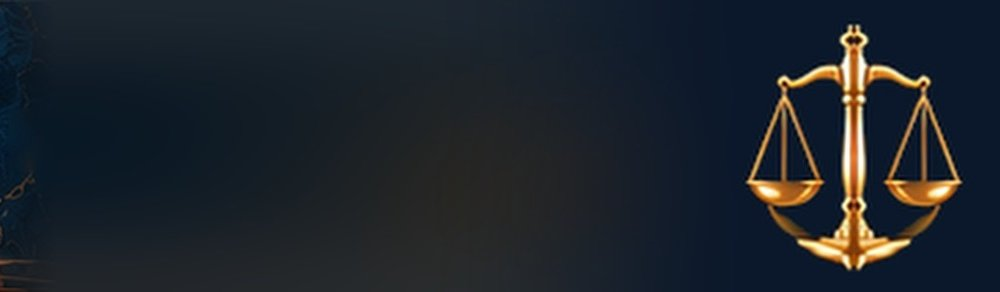
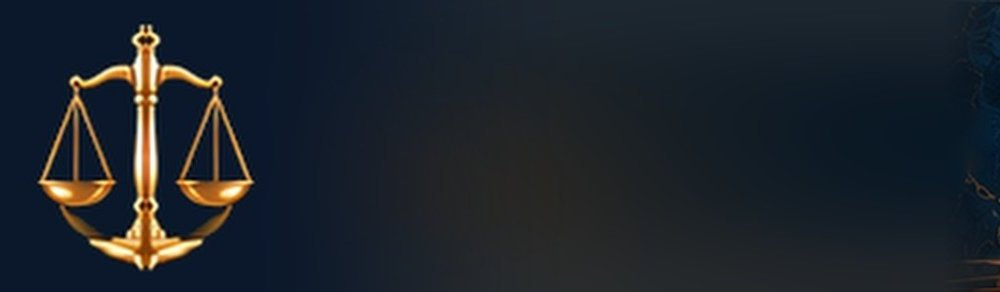
تطبيق الموكل: ورق خشن، هيدر أوضح، أيقونات حديثة، بطاقة جلسة مضغوطة
Claude-Session: https://claude.ai/code/session_01VYKzt29RVVuxCy8ToxrDG3

diff --git a/office/mithaq_portal/lib/home.dart b/office/mithaq_portal/lib/home.dart
@@ -109,10 +109,14 @@ class _Header extends StatelessWidget {
     final unread = store.unread;
     return Container(
       padding: EdgeInsets.fromLTRB(Sp.page, top + Sp.s, Sp.page, Sp.l),
+      foregroundDecoration: BoxDecoration(
+        borderRadius: const BorderRadius.vertical(bottom: Radius.circular(R.sheet)),
+        gradient: LinearGradient(begin: Alignment.centerRight, end: Alignment.centerLeft, colors: [MQ.forestDeep.withValues(alpha: .92), MQ.forestDeep.withValues(alpha: .78), MQ.forestDeep.withValues(alpha: .15)], stops: const [0, .6, 1]),
+      ),
       decoration: BoxDecoration(
         color: MQ.forest,
         borderRadius: const BorderRadius.vertical(bottom: Radius.circular(R.sheet)),
-        image: const DecorationImage(image: AssetImage('assets/images/hdr.jpg'), fit: BoxFit.cover, alignment: Alignment.centerRight),
+        image: const DecorationImage(image: AssetImage('assets/images/hdr.jpg'), fit: BoxFit.cover, alignment: Alignment.centerLeft),
         boxShadow: [BoxShadow(color: MQ.forest.withValues(alpha: .25), blurRadius: 16, offset: const Offset(0, 6))],
         border: const Border(bottom: BorderSide(color: MQ.gold, width: 1.5)),
       ),
@@ -130,8 +134,8 @@ class _Header extends StatelessWidget {
           const SizedBox(width: Sp.m),
           Expanded(
             child: Column(crossAxisAlignment: CrossAxisAlignment.start, children: [
-              Text('بوابة الموكل', style: MQ.title1(color: MQ.brassHi)),
-              Text('${store.office['name'] ?? ''}', style: MQ.footnote(color: MQ.soft), maxLines: 1, overflow: TextOverflow.ellipsis),
+              Text('بوابة الموكل', style: MQ.title1(color: Colors.white).copyWith(shadows: const [Shadow(color: Colors.black54, blurRadius: 6)])),
+              Text('${store.office['name'] ?? ''}', style: MQ.subhead(color: MQ.brassHi, weight: FontWeight.w600), maxLines: 1, overflow: TextOverflow.ellipsis),
             ]),
           ),
           const SizedBox(width: 56),
@@ -147,8 +151,8 @@ class _Header extends StatelessWidget {
           const SizedBox(width: Sp.m),
           Expanded(
             child: Column(crossAxisAlignment: CrossAxisAlignment.start, children: [
-              Text('${greeting()}، ${store.firstName}', style: MQ.headline(color: Colors.white), maxLines: 1, overflow: TextOverflow.ellipsis),
-              Text('نحن هنا لدعمك في كل خطوة من قضيتك', style: MQ.footnote(color: MQ.soft)),
+              Text('${greeting()}، ${store.firstName}', style: MQ.title3(color: Colors.white), maxLines: 1, overflow: TextOverflow.ellipsis),
+              Text('نحن هنا لدعمك في كل خطوة من قضيتك', style: MQ.subhead(color: Colors.white.withValues(alpha: .92))),
             ]),
           ),
         ]),
@@ -182,46 +186,36 @@ class _NextHearing extends StatelessWidget {
     final n = next!;
     final attend = n.h['attend'] == true;
     return Container(
-      decoration: BoxDecoration(color: MQ.forest, borderRadius: BorderRadius.circular(R.card + 4)),
-      padding: const EdgeInsets.all(Sp.l),
-      child: Column(crossAxisAlignment: CrossAxisAlignment.start, children: [
-        Row(children: [
-          Expanded(child: Text('الجلسة القادمة', style: MQ.footnote(color: MQ.soft, weight: FontWeight.w600))),
-          Container(
-            padding: const EdgeInsets.symmetric(horizontal: 10, vertical: 3),
-            decoration: BoxDecoration(color: attend ? MQ.brassHi : Colors.white.withValues(alpha: .12), borderRadius: BorderRadius.circular(R.pill)),
-            child: Text(attend ? 'حضورك مطلوب' : 'يحضر المحامي عنك',
-                style: MQ.caption(color: attend ? MQ.forest : MQ.onGold, weight: FontWeight.w700)),
-          ),
-        ]),
-        const SizedBox(height: Sp.m),
-        IntrinsicHeight(
-          child: Row(crossAxisAlignment: CrossAxisAlignment.stretch, children: [
-            Container(
-              width: 72,
-              padding: const EdgeInsets.symmetric(vertical: Sp.s),
-              decoration: BoxDecoration(borderRadius: BorderRadius.circular(R.control), border: Border.all(color: MQ.brassHi.withValues(alpha: .5))),
-              child: Column(mainAxisAlignment: MainAxisAlignment.center, children: [
-                Text(dayName(n.t), style: MQ.caption(color: MQ.brassHi)),
-                Text('${n.t.day}', style: MQ.title1(color: MQ.onGold)),
-                Text(_months[n.t.month - 1], style: MQ.caption(color: MQ.soft, weight: FontWeight.w400)),
-              ]),
-            ),
-            const SizedBox(width: Sp.m),
-            Expanded(
-              child: Column(crossAxisAlignment: CrossAxisAlignment.start, mainAxisAlignment: MainAxisAlignment.center, children: [
-                Text('${n.h['time']}', style: MQ.mono(18, color: MQ.brassHi, weight: FontWeight.w600)),
-                const SizedBox(height: 2),
-                Text('${n.h['purpose']}', style: MQ.headline(color: MQ.onGold), maxLines: 2, overflow: TextOverflow.ellipsis),
-                Text('${n.kase['court']} · القضية ${n.kase['no']}', style: MQ.footnote(color: MQ.soft), maxLines: 2, overflow: TextOverflow.ellipsis),
-              ]),
-            ),
+      decoration: BoxDecoration(color: MQ.forest, borderRadius: BorderRadius.circular(R.card), border: Border.all(color: MQ.gold.withValues(alpha: .35))),
+      padding: const EdgeInsets.symmetric(horizontal: Sp.m + 2, vertical: Sp.m),
+      child: Row(children: [
+        Container(
+          width: 52,
+          padding: const EdgeInsets.symmetric(vertical: 6),
+          decoration: BoxDecoration(borderRadius: BorderRadius.circular(R.control - 2), border: Border.all(color: MQ.brassHi.withValues(alpha: .55))),
+          child: Column(children: [
+            Text('${n.t.day}', style: MQ.title2(color: MQ.onGold)),
+            Text(_months[n.t.month - 1], style: MQ.caption(color: MQ.brassHi)),
           ]),
         ),
-        const SizedBox(height: Sp.m),
-        Countdown(target: n.t),
+        const SizedBox(width: Sp.m),
+        Expanded(
+          child: Column(crossAxisAlignment: CrossAxisAlignment.start, children: [
+            Text('الجلسة القادمة · ${dayName(n.t)} ${n.h['time']}', style: MQ.footnote(color: MQ.brassHi, weight: FontWeight.w600)),
+            Text('${n.h['purpose']}', style: MQ.callout(color: MQ.onGold, weight: FontWeight.w600), maxLines: 1, overflow: TextOverflow.ellipsis),
+            Text(attend ? 'حضورك مطلوب · ${_left(n.t)}' : 'يحضر المحامي عنك · ${_left(n.t)}', style: MQ.caption(color: attend ? MQ.brassHi : MQ.soft, weight: FontWeight.w600)),
+          ]),
+        ),
       ]),
     );
+  }
+
+  static String _left(DateTime t) {
+    final d = t.difference(DateTime.now());
+    if (d.inMinutes <= 0) return 'الآن';
+    if (d.inDays >= 1) return 'بعد ${d.inDays} يوم';
+    if (d.inHours >= 1) return 'بعد ${d.inHours} ساعة';
+    return 'بعد ${d.inMinutes} دقيقة';
   }
 }
 

diff --git a/office/mithaq_portal/lib/chat.dart b/office/mithaq_portal/lib/chat.dart
@@ -205,7 +205,7 @@ class ChatTabState extends State<ChatTab> {
         IconButton(
           tooltip: 'إرفاق وثيقة',
           onPressed: () => Attach.sheet(context),
-          icon: const Icon(Icons.note_add_outlined, color: MQ.forest),
+          icon: const Icon(Icons.upload_file_rounded, color: MQ.forest),
         ),
       ]),
     ));
@@ -235,10 +235,8 @@ class ChatTabState extends State<ChatTab> {
         child: SafeArea(
           top: false,
           child: Row(crossAxisAlignment: CrossAxisAlignment.end, children: [
-            IconButton(
-                tooltip: 'إرفاق',
-                onPressed: () => Attach.sheet(context),
-                icon: Transform.rotate(angle: math.pi / 4, child: const Icon(Icons.attach_file, color: MQ.muted))),
+            _tool(Icons.upload_file_rounded, 'رفع مستند', () => Attach.pick(context, AttachSource.file)),
+            const SizedBox(width: 6),
             Expanded(
               child: Focus(
                 onKeyEvent: (node, e) {
@@ -270,23 +268,33 @@ class ChatTabState extends State<ChatTab> {
                 ),
               ),
             ),
-            if (!hasText)
-              IconButton(
-                  tooltip: 'تصوير وثيقة',
-                  onPressed: () => Attach.pick(context, AttachSource.camera),
-                  icon: const Icon(Icons.photo_camera_outlined, color: MQ.muted)),
+            if (!hasText) ...[const SizedBox(width: 6), _tool(Icons.photo_camera_rounded, 'تصوير وثيقة', () => Attach.pick(context, AttachSource.camera))],
             const SizedBox(width: 2),
             AnimatedSwitcher(
               duration: const Duration(milliseconds: 180),
               transitionBuilder: (c, a) => ScaleTransition(scale: a, child: c),
               child: _roundBtn(
                 key: ValueKey(hasText),
-                icon: hasText ? Icons.send_rounded : Icons.mic_rounded,
+                icon: hasText ? Icons.arrow_upward_rounded : Icons.mic_rounded,
                 tooltip: hasText ? 'إرسال' : 'تسجيل رسالة صوتية',
                 onTap: hasText ? sendText : startRec,
               ),
             ),
           ]),
+        ),
+      );
+
+  /// زر أداة حديث: مربع مدوّر بخلفية ذهبية خفيفة وأيقونة ممتلئة مدوّرة الحواف
+  Widget _tool(IconData icon, String tip, VoidCallback onTap) => Tooltip(
+        message: tip,
+        child: Material(
+          color: MQ.brassSoft,
+          borderRadius: BorderRadius.circular(R.control),
+          child: InkWell(
+            borderRadius: BorderRadius.circular(R.control),
+            onTap: onTap,
+            child: SizedBox(width: 44, height: 44, child: Icon(icon, color: MQ.brass, size: 24)),
+          ),
         ),
       );
 

diff --git a/office/mithaq_portal/lib/attach.dart b/office/mithaq_portal/lib/attach.dart
@@ -24,11 +24,11 @@ class Attach {
             Text('يصل المرفق إلى المحامي فوراً ويُحفظ في ملفك لدى المكتب.', style: MQ.footnote()),
             const SizedBox(height: 18),
             Row(children: [
-              _opt(c, AttachSource.camera, Icons.photo_camera_outlined, 'الكاميرا', 'صوّر الوثيقة الآن', MQ.forest),
+              _opt(c, AttachSource.camera, Icons.photo_camera_rounded, 'الكاميرا', 'صوّر الوثيقة الآن', MQ.forest),
               const SizedBox(width: 10),
-              _opt(c, AttachSource.gallery, Icons.photo_library_outlined, 'المعرض', 'صورة محفوظة', MQ.brass),
+              _opt(c, AttachSource.gallery, Icons.photo_library_rounded, 'المعرض', 'صورة محفوظة', MQ.brass),
               const SizedBox(width: 10),
-              _opt(c, AttachSource.file, Icons.description_outlined, 'مستند', 'PDF · Word · Excel', MQ.docBlue),
+              _opt(c, AttachSource.file, Icons.upload_file_rounded, 'مستند', 'PDF · Word · Excel', MQ.docBlue),
             ]),
           ]),
         ),
